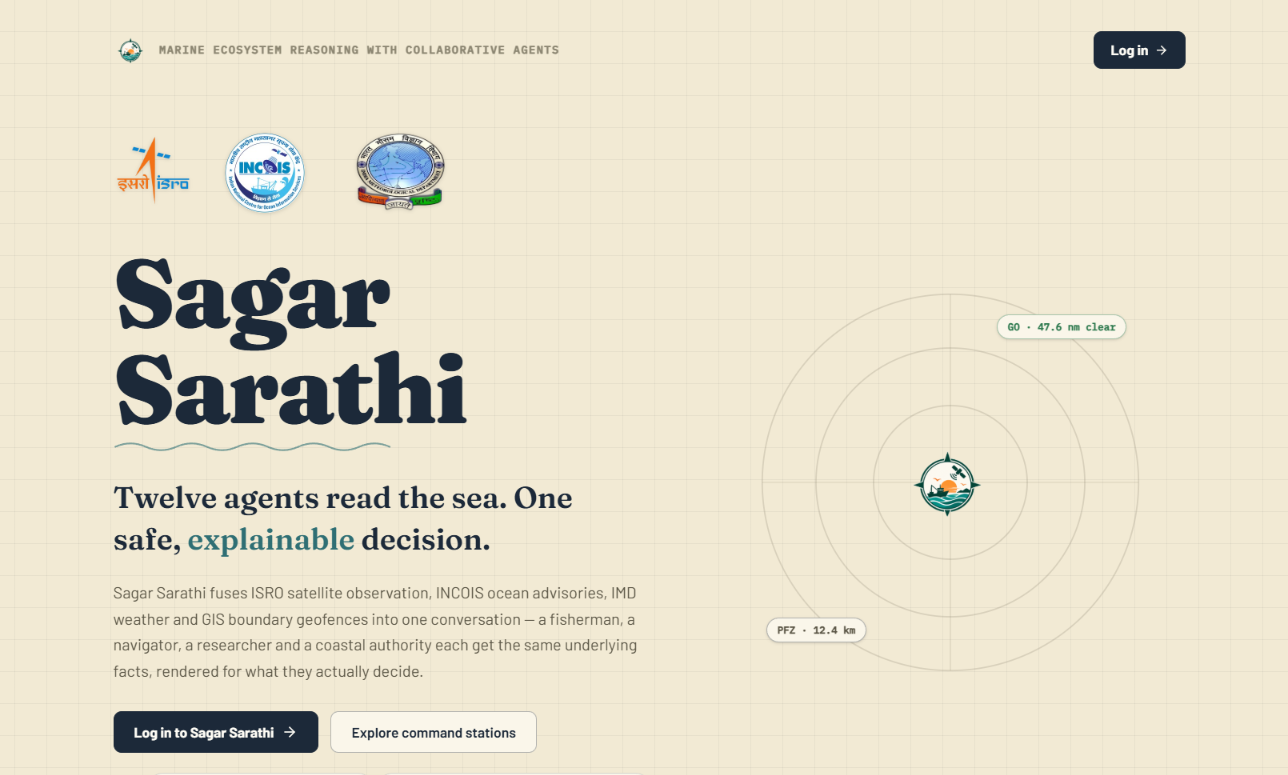
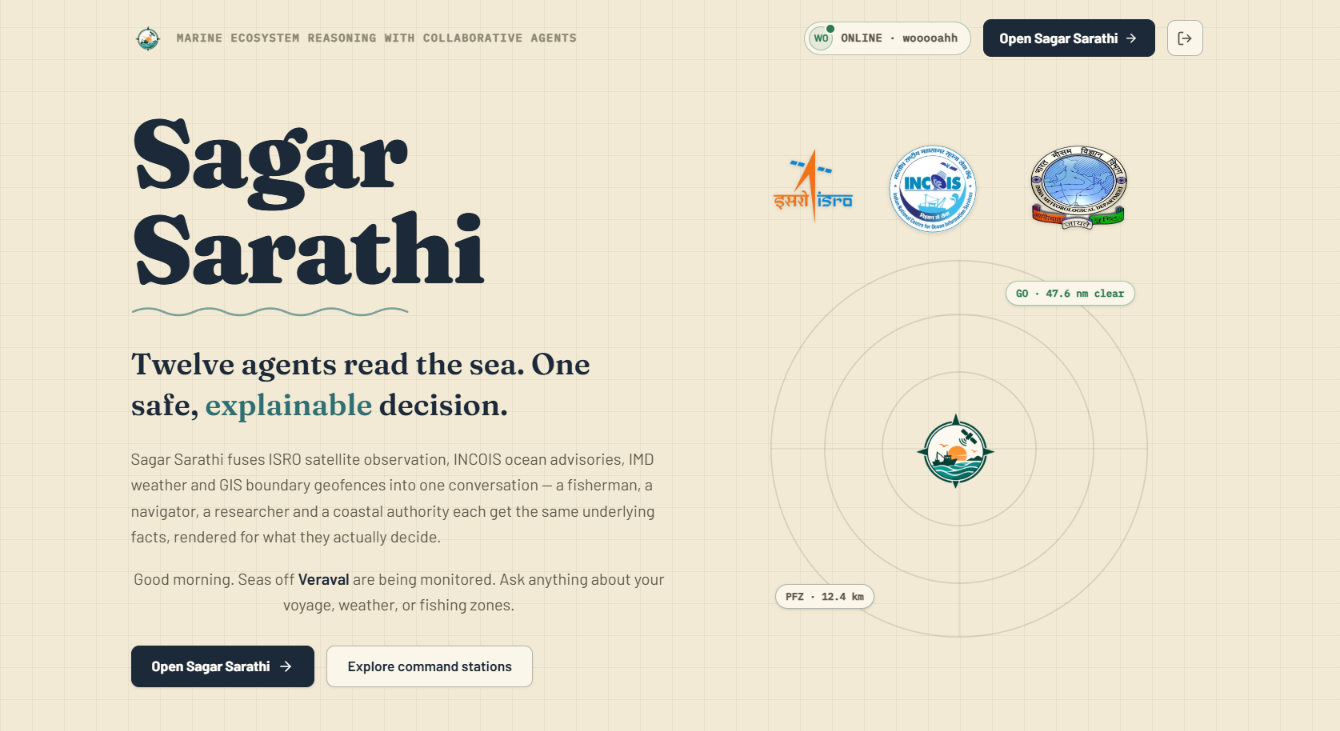
hehe

diff --git a/frontend/app/demo/IMBLCrossing.tsx b/frontend/app/demo/IMBLCrossing.tsx
@@ -104,6 +104,10 @@ export function IMBLCrossing() {
   const [index, setIndex] = useState(-1);
   const [running, setRunning] = useState(false);
   const spokenRef = useRef<Band | null>(null);
+  // Track the current app language in a ref so reset() can sync selectedLang
+  // without a setState-in-effect (which the linter forbids).
+  const languageRef = useRef(language);
+  useEffect(() => { languageRef.current = language as LangCode; }, [language]);
   const flashTimerRef = useRef<NodeJS.Timeout | null>(null);
   const flashCountRef = useRef(0);
   const [criticalFlash, setCriticalFlash] = useState(false);
@@ -119,10 +123,7 @@ export function IMBLCrossing() {
     return () => document.removeEventListener("mousedown", fn);
   }, [langOpen]);
 
-  // Sync language selector before demo starts
-  useEffect(() => {
-    if (!running && index < 0) setSelectedLang(language as LangCode);
-  }, [language, running, index]);
+
 
   // Auto-advance frames
   useEffect(() => {
@@ -209,6 +210,7 @@ export function IMBLCrossing() {
   const reset = useCallback(() => {
     setRunning(false);
     setIndex(-1);
+    setSelectedLang(languageRef.current as LangCode);
     spokenRef.current = null;
     setCriticalFlash(false);
     setCriticalOverlay(false);

diff --git a/frontend/app/voyage/SeaRouteMap.tsx b/frontend/app/voyage/SeaRouteMap.tsx
@@ -256,7 +256,7 @@ export function SeaRouteMap({
         const el = document.createElement("div");
         el.className =
           "flex items-center justify-center w-6 h-6 rounded-full bg-emerald-600 text-white font-bold text-[10px] shadow-lg border-2 border-white pointer-events-none";
-        el.innerText = "A";
+        el.innerText = "S";
         startMarkerRef.current = new maplibregl.Marker({ element: el })
           .setLngLat([startPin[1], startPin[0]])
           .addTo(map);
@@ -278,7 +278,7 @@ export function SeaRouteMap({
         const el = document.createElement("div");
         el.className =
           "flex items-center justify-center w-6 h-6 rounded-full bg-rose-600 text-white font-bold text-[10px] shadow-lg border-2 border-white pointer-events-none";
-        el.innerText = "B";
+        el.innerText = "D";
         endMarkerRef.current = new maplibregl.Marker({ element: el })
           .setLngLat([endPin[1], endPin[0]])
           .addTo(map);

diff --git a/frontend/app/components/MapView.tsx b/frontend/app/components/MapView.tsx
@@ -637,22 +637,7 @@ export function MapView({
     ...initialLayers,
   });
 
-  useEffect(() => {
-    if (initialLayers) {
-      setLayers((s) => ({ ...s, ...initialLayers }));
-    }
-  }, [
-    initialLayers?.boundaries,
-    initialLayers?.boundaryLines,
-    initialLayers?.pfz,
-    initialLayers?.seamarks,
-    initialLayers?.srvBathymetry,
-    initialLayers?.waveForecast,
-    initialLayers?.currents,
-    initialLayers?.wind,
-    initialLayers?.watchBadges,
-    initialLayers?.cyclone,
-  ]);
+
   const [rasterLayers, setRasterLayers] = useState<RasterLayerMeta[]>([]);
   const [currentVectors, setCurrentVectors] = useState<CurrentVector[] | null>(null);
   const [currentBounds, setCurrentBounds] = useState<[number, number, number, number] | null>(null);
